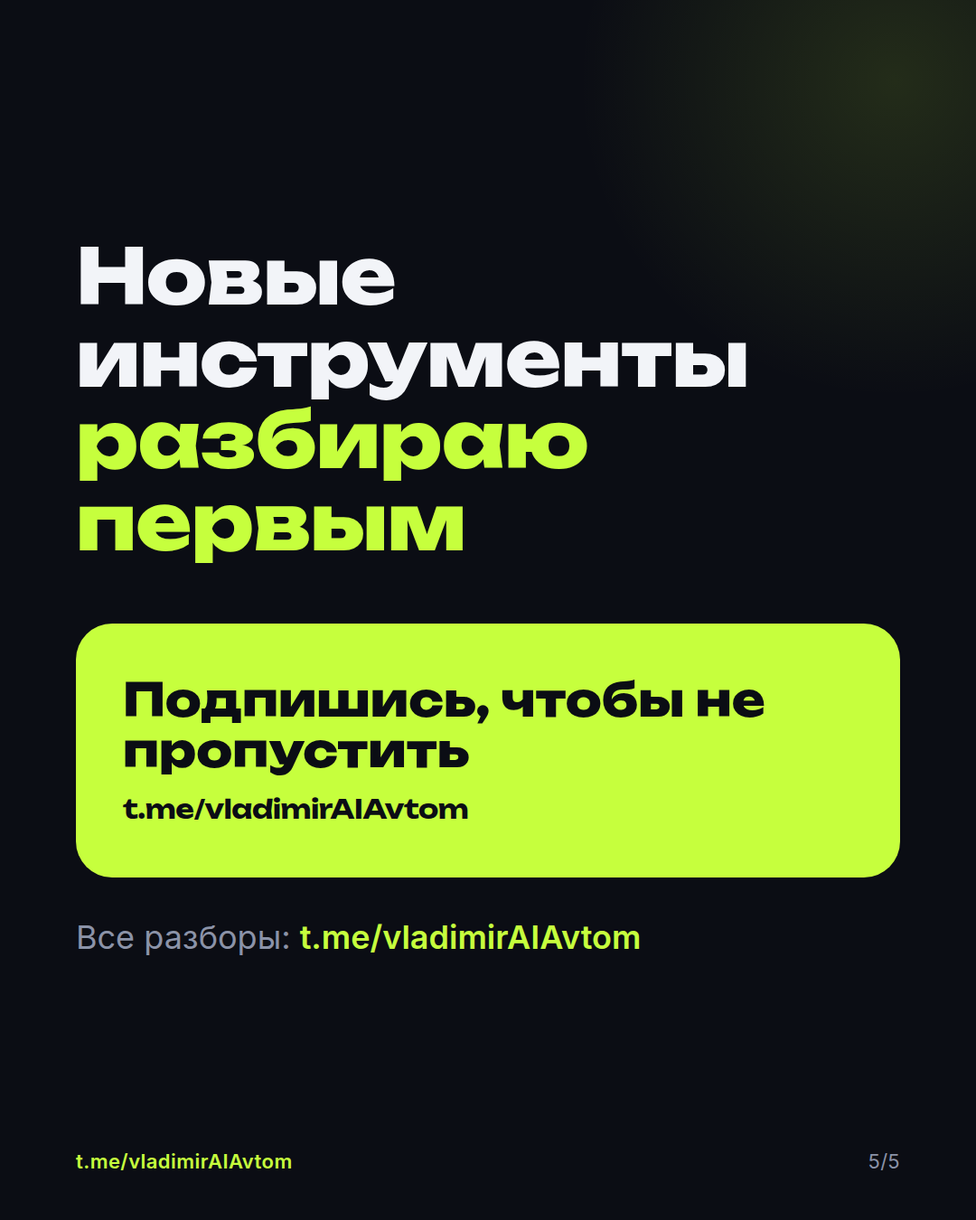
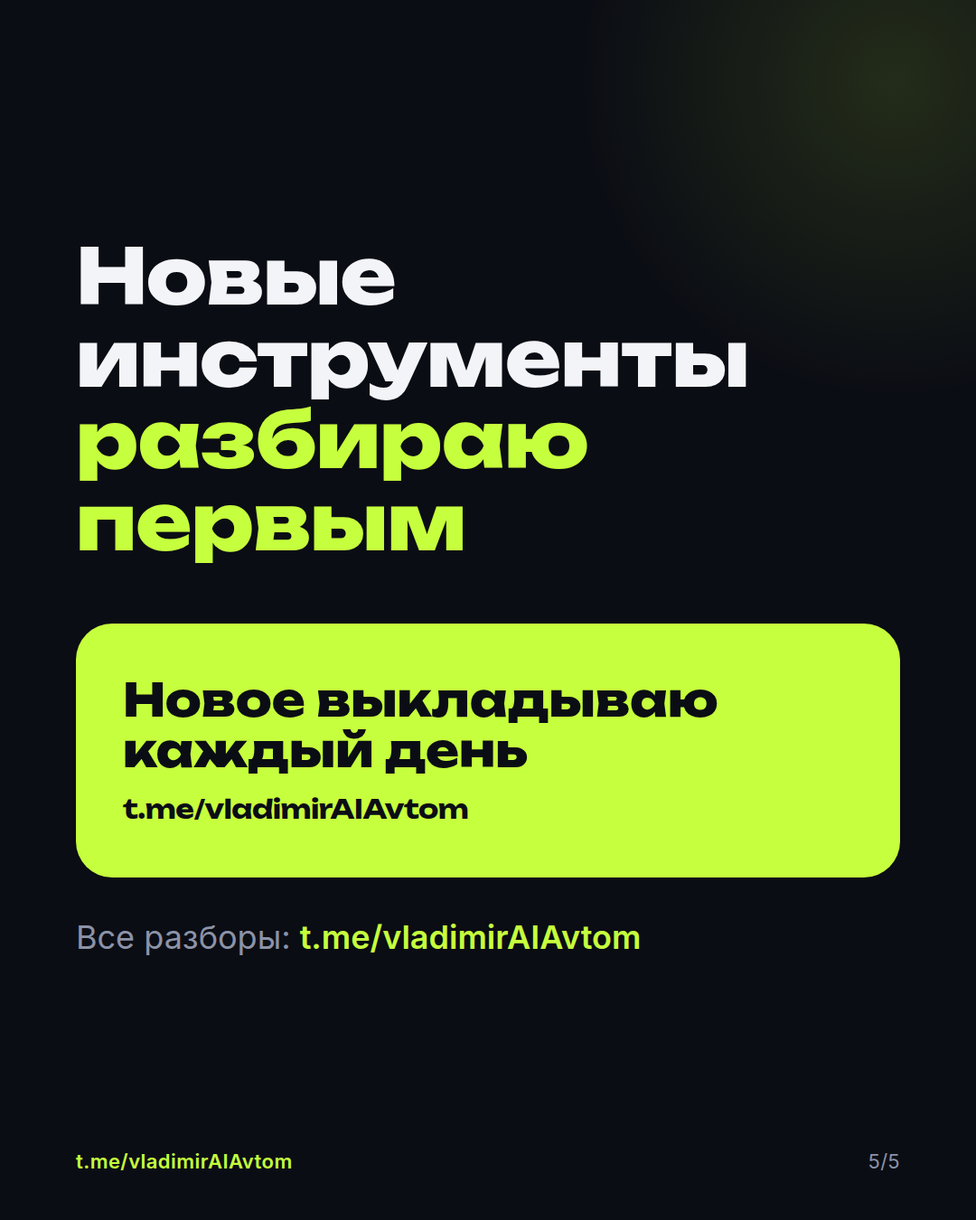
Переписаны тексты Telegram и Threads живым языком, новые финальные слайды
Claude-Session: https://claude.ai/code/session_01RGtCujMSt6uDGJ5qVfRfoY

Changed region(s): [[0.1222, 0.56, 0.7944, 0.6533]]

diff --git a/posts/2026-10-13_1800_p01_claude7/threads.md b/posts/2026-10-13_1800_p01_claude7/threads.md
@@ -1,23 +1,11 @@
-ОШИБКА, ИЗ-ЗА КОТОРОЙ ОДИН РИЛС НЕ МАСШТАБИРУЕТСЯ НА НЕСКОЛЬКО АККАУНТОВ
-Заливаешь один и тот же ролик на 3-5 профилей и охваты у всех проседают.
-Я делаю до 10 копий рилса за минуту ботом и разобрал, что ещё важно, кроме самого файла. 5 пунктов:
+ПОЧЕМУ ОДИН РИЛС НА НЕСКОЛЬКИХ АККАУНТАХ НЕ ЗАХОДИТ
+Заливаешь один ролик на 3-5 профилей, и охваты у всех проседают. Я делаю до 10 копий рилса за минуту ботом, и вот что важно кроме самого файла.
 ---
-[1] РАЗНЕСИ ВЫХОД ПО ВРЕМЕНИ
-Не выкладывай копии одновременно. Между аккаунтами хотя бы 3-4 часа.
-Сделай так: расписание на неделю, у каждого аккаунта свой час.
+Разнеси выход по времени. Между аккаунтами хотя бы 3-4 часа, у каждого свой час в расписании.
 ---
-[2] У КАЖДОГО АККАУНТА СВОЯ ПОДПИСЬ
-Один текст под всеми копиями выдаёт тиражирование.
-Сделай так: попроси нейросеть переписать подпись под 5 аккаунтов, сохранив смысл и призыв.
+Пиши свою подпись под каждую копию. Один текст везде выдаёт тиражирование. Нейросеть перепишет под 5 аккаунтов, а смысл останется.
 ---
-[3] СВОЯ ОБЛОЖКА И ПЕРВЫЙ КАДР
-Начало решает, досмотрят ли. Поменяй обложку и первые 2 секунды.
-Сделай так: 2 варианта начала, сравни удержание через сутки.
+Меняй обложку и первые 2 секунды. Начало решает, досмотрят ли. Сделай 2 варианта и через сутки сравни удержание.
 ---
-[4] ВЕДИ ТАБЛИЦУ РЕЗУЛЬТАТОВ
-Одна копия на разных аккаунтах даёт разные цифры. Записывай просмотры, удержание, сохранения.
-Сделай так: 4 колонки и 10 строк хватит, чтобы увидеть, что заходит.
----
-[5] ТЕСТИРУЙ НА СВОЁМ РИЛСЕ ДО ПОКУПКИ
-Проверь копию глазами и на своём аккаунте, прежде чем лить на все.
-Сделай так: первые 5 копий в моём боте бесплатно, ссылка в Telegram: t.me/vladimirAIAvtom
+Веди таблицу: просмотры, удержание, сохранения. 4 колонки и 10 строк хватит, чтобы увидеть, что заходит.
+Сначала проверь копию на своём аккаунте. Первые 5 копий в моём боте бесплатно, ссылка в Telegram: t.me/vladimirAIAvtom

diff --git a/posts/2026-10-13_1200_07_agent/threads.md b/posts/2026-10-13_1200_07_agent/threads.md
@@ -1,23 +1,11 @@
 Я НЕ ПУБЛИКУЮ ПОСТЫ РУКАМИ С 10 ОКТЯБРЯ
-Посты в Telegram и Threads выходят сами по расписанию, и это стоит 0 рублей.
-Вот 5 шагов, как это устроено:
+Посты в Telegram и Threads выходят сами по расписанию, и стоит это 0 рублей. Расскажу, как устроено.
 ---
-[1] ОДИН ПОСТ = ОДНА ПАПКА
-В папке лежат текст и картинки. Дата и время публикации прямо в названии папки.
-Сделай так: назови папки 2026-10-14_1200_название и держи шаблон под рукой.
+Один пост - одна папка. Внутри текст и картинки, а дата и время публикации прописаны в названии папки.
 ---
-[2] РАСПИСАНИЕ ЗАПУСКАЕТ СЕРВИС, А НЕ ТЫ
-Я использую GitHub Actions: каждые 15 минут скрипт смотрит, чьё время пришло.
-Сделай так: попроси нейросеть написать такой скрипт под твой канал.
+Расписание запускает GitHub Actions. Раз в 15 минут скрипт смотрит, чьё время пришло, и публикует. Такой скрипт можно попросить написать нейросеть под твой канал.
 ---
-[3] ТОКЕНЫ В СЕКРЕТАХ
-Ключи бота и Threads не лежат в коде, они в защищённых настройках сервиса.
-Сделай так: никогда не вставляй токен в чат и в репозиторий.
+Ключи от бота и Threads лежат в защищённых настройках сервиса, не в коде. Токен нельзя вставлять ни в чат, ни в репозиторий.
 ---
-[4] ЗАПАС НА ЗАДЕРЖКИ
-Расписание иногда опаздывает: у меня был перерыв в 5 часов. Скрипт публикует всё, что пропущено за последние 48 часов.
-Сделай так: добавь ручной запуск на случай сбоя.
----
-[5] ПЕРВЫЕ ДВЕ НЕДЕЛИ ПРОВЕРЯЙ РЕЗУЛЬТАТ
-Автомат не отвечает за смысл. Смотри, что вышло и как выглядит.
-Сделай так: раз в день 2 минуты на проверку ленты. Как я это собрал: t.me/vladimirAIAvtom
+Расписание иногда опаздывает, у меня был перерыв в 5 часов. Поэтому скрипт добирает всё пропущенное, а запуск можно нажать руками.
+Первые две недели я смотрю ленту раз в день. Как я это собрал: t.me/vladimirAIAvtom

diff --git a/posts/2026-10-15_1200_p04_hook/threads.md b/posts/2026-10-15_1200_p04_hook/threads.md
@@ -1,22 +1,11 @@
 РИЛС С ИИ ЗА 10 МИНУТ
-Раньше сценарий съедал час. Сейчас собираю по одной схеме. Вот 5 шагов:
+Раньше сценарий съедал у меня час. Теперь собираю по одной схеме из 5 шагов.
 ---
-[1] ТЕМА ИЗ ВОПРОСОВ АУДИТОРИИ
-Не придумывай тему, возьми вопрос из директа или комментариев.
-Сделай так: выпиши 7 последних вопросов и выбери самый частый.
+Тему беру из вопросов аудитории. Выписываю 7 последних вопросов из директа и комментариев, выбираю самый частый.
 ---
-[2] КРЮЧОК В ПЕРВОЙ ФРАЗЕ
-Результат, цифра, ошибка или спор. Не «Привет, сегодня расскажу».
-Сделай так: попроси нейросеть дать 5 вариантов первой фразы и выбери самый конкретный.
+Первая фраза с крючком: результат, цифра, ошибка или спор. Не «Привет, сегодня расскажу». Прошу нейросеть дать 5 вариантов и беру самый конкретный.
 ---
-[3] СЦЕНАРИЙ НА 30 СЕКУНД
-Крючок, 3 пункта, одно действие в конце. Фразы до 12 слов.
-Сделай так: вставь в Claude промпт: «Ты сценарист коротких видео. Тема: [тема]. Напиши сценарий на 30 секунд».
+Сценарий на 30 секунд: крючок, 3 пункта, одно действие в конце, фразы до 12 слов. Пишет Claude по промпту: «Ты сценарист коротких видео. Тема: [тема]. Напиши сценарий на 30 секунд».
 ---
-[4] СЪЁМКА БЕЗ ПЕРЕСЪЁМОВ
-Свет от окна, чистый звук, субтитры. Звук важнее картинки.
-Сделай так: перед записью один раз проговори текст вслух, уберёшь неудобные фразы.
----
-[5] МЕТРИКИ ПОСЛЕ ВЫХОДА
-Удержание, просмотры не от подписчиков, сохранения и отправки.
-Сделай так: через сутки запиши 3 цифры и сделай следующий рилс на ту же тему. Гайд в PDF: t.me/vladimirAIAvtom
+Снимаю у окна, звук чистый, субтитры включены. Звук важнее картинки. Через сутки записываю 3 цифры: удержание, просмотры не от подписчиков, сохранения.
+Гайд в PDF: t.me/vladimirAIAvtom

diff --git a/posts/2026-10-13_1800_p01_claude7/text.md b/posts/2026-10-13_1800_p01_claude7/text.md
@@ -1,21 +1,20 @@
 7 ПРОМПТОВ, КОТОРЫЕ ЭКОНОМЯТ МНЕ ЧАС В ДЕНЬ
-Для предпринимателя. Копируй и меняй под себя.
+Беру их почти каждый день. Подставляй свой текст.
 
-Письма:
-1. «Вот сообщение клиента. Ответь вежливо и коротко, предложи 2 варианта решения»
-2. «Перепиши письмо спокойно, но чтобы было ясно, что сроки не сорвутся»
-3. «Вот заметки встречи. Выдели решения, ответственных и сроки списком»
+Письма
+1. Вот сообщение клиента: [текст]. Ответь вежливо и коротко, предложи 2 варианта решения.
+2. Перепиши письмо спокойно, но так, чтобы было ясно: сроки не сорвутся.
+3. Вот заметки со встречи. Выдели решения, ответственных и сроки списком.
 
-Контент:
-4. «Дай 10 заголовков к тексту, каждый с цифрой»
-5. «Сожми текст до 600 символов, сохрани цифры»
+Контент
+4. Дай 10 заголовков к тексту, в каждом цифра.
+5. Сожми текст до 600 символов, цифры оставь.
 
-Решения:
-6. «Вот мой план. Найди 5 слабых мест и скажи, что проверить заранее»
-7. «Вот данные. Назови 3 вывода и 1 действие на завтра»
+Решения
+6. Вот мой план. Найди 5 слабых мест и скажи, что проверить заранее.
+7. Вот данные. Назови 3 вывода и 1 действие на завтра.
 
-Сделай так: вставляй реальный текст или таблицу, а не пересказ.
-Какой промпт добавить в следующий список? Напиши в комментариях. Завтра в 12:00 выйдет гайд на 12 промптов.
+Работает, когда даёшь настоящий текст или таблицу, а не пересказ. Какой промпт добавить в следующий список? Завтра в 12:00 выйдет гайд на 12 промптов.
 
 Instagram: instagram.com/vladimir_shchetkovsky
 Threads: threads.com/@vladimir_shchetkovsky

diff --git a/posts/2026-10-17_1800_g4_insta/threads.md b/posts/2026-10-17_1800_g4_insta/threads.md
@@ -1,23 +1,12 @@
 ЧЕЛОВЕК ЗАШЁЛ В ПРОФИЛЬ И УШЁЛ. ПОЧЕМУ
-Вот 5 причин, из-за которых визит не превращается в подписку:
+Чаще всего причина в одном из пяти мест. Иду по порядку.
 ---
-[1] НЕПОНЯТНО, О ЧЁМ БЛОГ
-В имени и шапке нет темы.
-Сделай так: в имени одно слово ниши, чтобы тебя находили.
+1. Непонятно, о чём блог. В имени и шапке нет темы. Поставь в имя слово ниши, чтобы тебя находили.
+2. Нет выгоды от подписки. Напиши одной строкой, что человек получит.
 ---
-[2] НЕТ ВЫГОДЫ ОТ ПОДПИСКИ
-Шапка про «я» вместо «ты получишь».
-Сделай так: напиши в одной строке, что человек получит, если подпишется.
+3. Ссылка ведёт в пустоту. Оставь одну, на главное действие: бот или канал.
+4. Нет актуального. Сделай 4 папки: Начни тут, Польза, Результаты, Связь.
 ---
-[3] ССЫЛКА ВЕДЁТ В ПУСТОТУ
-Несколько ссылок и ни одного действия.
-Сделай так: одна ссылка на главное действие: бот или канал.
+5. Закреп не продаёт. Закрепи три поста: про тебя, самый залётный разбор и результат.
 ---
-[4] НЕТ АКТУАЛЬНОГО
-Новичку негде быстро понять пользу.
-Сделай так: 4 папки: «Начни тут», «Польза», «Результаты», «Связь».
----
-[5] ЗАКРЕП НЕ ПРОДАЁТ
-Лучшие посты утонули в ленте.
-Сделай так: закрепи 3: про тебя, самый залётный разбор и результат.
-Гайд по упаковке в PDF: напиши «ПРОФИЛЬ» в комментариях, отправлю в директ. Или забери в Telegram: t.me/vladimirAIAvtom
+Что у тебя сейчас в шапке? Напиши, скажу, что поправить. Гайд по упаковке в PDF: напиши ПРОФИЛЬ, отправлю в директ. Или в Telegram: t.me/vladimirAIAvtom

diff --git a/posts/2026-10-14_1800_p11_prompt4/threads.md b/posts/2026-10-14_1800_p11_prompt4/threads.md
@@ -1,19 +1,12 @@
 ВСЕ ГОВОРЯТ: ЧТОБЫ ВЕСТИ БЛОГ, НУЖЕН SMM-ЩИК
-А я считаю, что хватит папки с постами и скрипта.
-Вот 3 причины, почему я так делаю:
+А я считаю, что хватит папки с постами и скрипта. Объясню, почему.
 ---
-[1] РЕШАЕТ РЕГУЛЯРНОСТЬ, А НЕ ШТАТ
-Посты, которые выходят каждый день, работают лучше идеальных, которые не вышли.
-Сделай так: заготовь 7 постов на неделю за один час.
+Регулярность важнее штата. Пост, который вышел, работает лучше идеального, который так и не вышел. Заготовь 7 постов на неделю за один час.
 ---
-[2] ПУБЛИКАЦИЮ МОЖНО ОТДАТЬ СКРИПТУ
-Скрипт по расписанию выкладывает всё сам, в Telegram и Threads.
-Сделай так: текст, картинки и время держи в одной папке.
+Публикацию можно отдать скрипту. Он по расписанию выкладывает всё сам, в Telegram и Threads. Текст, картинки и время лежат в одной папке.
 ---
-[3] ВЫДУМЫВАТЬ ПОМОГАЕТ НЕЙРОСЕТЬ
-Она пишет черновики, ты правишь голос и факты.
-Сделай так: давай ей роль, задачу, контекст и формат (формулу я разбирал в Telegram).
+Придумывать помогает нейросеть. Она пишет черновик, ты правишь голос и факты. Дай ей роль, задачу, контекст и формат.
 ---
-Где SMM-щик всё же нужен: стратегия, съёмка, работа с клиентами.
-А вы как думаете: что из ведения блога можно отдать автомату, а что нет? Пишите в ответы.
+SMM-щик всё равно нужен там, где стратегия, съёмка и работа с клиентами.
+Что бы ты отдал автомату в ведении блога, а что нет? Напиши в ответах.
 Разбираю такое в Telegram: t.me/vladimirAIAvtom

diff --git a/posts/2026-10-15_1800_p05_tools/threads.md b/posts/2026-10-15_1800_p05_tools/threads.md
@@ -1,16 +1,11 @@
 МНЕ 29, Я ЖИВУ ВО ВЬЕТНАМЕ И СОБИРАЮ БЛОГ КАК ПРОДУКТ
-Люди удивляются, когда узнают, что у меня нет команды: бот, автопостинг и сценарии рилсов делает нейросеть.
-История коротко, потом цифры:
+Многие удивляются, что у меня нет команды. Бот, автопостинг и сценарии рилсов сделаны с нейросетью. Расскажу коротко, потом по цифрам.
 ---
-[1] ЧТО Я СДЕЛАЛ
-Бот, который за минуту делает до 10 разных копий рилса. Пять копий бесплатно.
+Что сделал: бота, который за минуту делает до 10 разных копий рилса. Первые 5 копий бесплатно.
 ---
-[2] КАК ПОСТЫ ВЫХОДЯТ САМИ
-С 10 октября посты в Telegram и Threads публикует скрипт по расписанию. Я не нажимаю кнопки.
+Как выходят посты: с 10 октября скрипт сам публикует в Telegram и Threads по расписанию. Я не нажимаю кнопки.
 ---
-[3] ЧТО ПОКА НЕ ПОЛУЧИЛОСЬ
-Продаж 0. Meta на сутки заблокировала мой аккаунт разработчика, и Threads молчал. Сегодня всё снова работает.
+Что пока не вышло: продаж ноль. Ещё Meta на сутки заблокировала мой аккаунт разработчика, и Threads молчал. Сейчас всё работает.
 ---
-Цифры буду писать каждый день, без приукрашивания.
-А вы что бы хотели автоматизировать в своём бизнесе в первую очередь?
-Результаты и разборы: t.me/vladimirAIAvtom
+Цифры буду писать каждый день. А ты что хочешь автоматизировать в своём бизнесе в первую очередь?
+Результаты и разборы в Telegram: t.me/vladimirAIAvtom

diff --git a/posts/2026-10-16_1200_p06_nano/threads.md b/posts/2026-10-16_1200_p06_nano/threads.md
@@ -1,14 +1,9 @@
-ФОТО ТОВАРА ДЛЯ КАРТОЧКИ БЕЗ СТУДИИ
-Один промпт для генератора изображений. Загрузи реальное фото товара как референс:
+ФОТО ТОВАРА ДЛЯ КАРТОЧКИ БЕЗ СТУДИИ: ОДИН ПРОМПТ
+Загрузи в генератор изображений реальное фото товара как образец и вставь промпт ниже.
 ---
-ПРОМПТ
-«Сфотографируй этот товар на светлом нейтральном фоне, мягкий дневной свет, тень под товаром, вид чуть сверху, товар занимает 70% кадра, без текста и логотипов, форма и цвет товара не меняются.»
+«Сфотографируй этот товар на светлом нейтральном фоне, мягкий дневной свет, тень под товаром, вид чуть сверху, товар занимает 70% кадра, без текста и логотипов, форма и цвет товара не меняются».
 ---
-ЧТО МЕНЯТЬ
-Фон: «на деревянном столе», «в цвет упаковки».
-Свет: «контрастный», «рассеянный».
-Ракурс: «сверху», «под углом 45 градусов».
+Дальше крути под себя: фон («на деревянном столе»), свет («контрастный»), ракурс («под углом 45 градусов»).
 ---
-ЧТО ПРОВЕРИТЬ
-Форма и цвет совпадают с реальным товаром. Нет лишних деталей и искажений. Фото не обещает того, чего в товаре нет.
-Больше схем с ИИ: t.me/vladimirAIAvtom
+Сверяй с реальным товаром: форма и цвет должны совпасть, и фото не должно обещать то, чего нет.
+Какой товар будешь снимать? Напиши, подскажу, что поменять. Ещё схемы с ИИ в Telegram: t.me/vladimirAIAvtom

diff --git a/posts/2026-10-16_1800_g6_reels/threads.md b/posts/2026-10-16_1800_g6_reels/threads.md
@@ -1,12 +1,10 @@
-ГАЙД: РИЛС С ИИ ЗА 10 МИНУТ
-От идеи до готового сценария. Полный PDF бесплатно в моём Telegram.
-Вот что внутри и один промпт:
+РИЛС С ИИ ЗА 10 МИНУТ
+Собрал гайд: от идеи до готового сценария. Главное из него покажу тут.
 ---
-ЧТО ВНУТРИ
-Идея: где брать темы. Крючок: 5 формул первой фразы. Сценарий: структура на 30 секунд. Съёмка: что снять и как. Метрики: что смотреть после выхода.
+Темы бери из вопросов подписчиков, из своего рабочего дня и из чужих залётных роликов. Разбери, почему они зашли, и сделай по-своему.
 ---
-ПРОМПТ СЦЕНАРИЯ
-«Ты сценарист коротких видео. Тема: [тема]. Аудитория: [кто]. Напиши сценарий на 30 секунд: крючок в первой фразе, 3 коротких пункта, в конце одно действие. Фразы до 12 слов, говорим как в жизни.»
+Промпт сценария: «Ты сценарист коротких видео. Тема: [тема]. Аудитория: [кто]. Напиши сценарий на 30 секунд: крючок в первой фразе, 3 коротких пункта, в конце одно действие. Фразы до 12 слов, говорим как в жизни».
 ---
-Полный PDF.
-Напиши «РИЛС» в комментариях, отправлю PDF в директ. Или забери в Telegram: t.me/vladimirAIAvtom
+Структура на 30 секунд: 0-3 сек крючок, до 25 сек три мысли, в конце одно действие.
+---
+Сколько времени у тебя уходит на один рилс? Напиши цифру. Гайд целиком: напиши РИЛС, отправлю в директ. Или в Telegram: t.me/vladimirAIAvtom

diff --git a/posts/2026-10-13_1200_07_agent/text.md b/posts/2026-10-13_1200_07_agent/text.md
@@ -1,14 +1,11 @@
 ЧАТ ОТВЕЧАЕТ. АГЕНТ ДЕЛАЕТ
-Большинство пользуется нейросетью как чатом: вопрос, ответ, копирование. Агент работает иначе:
+В обычном чате ты спрашиваешь, он отвечает, ты копируешь результат. Агент берёт задачу и ведёт её сам: ищет, открывает файлы, собирает итог и перепроверяет себя.
 
-1. Задача: чат даёт один ответ, агент делает цепочку шагов до результата
-2. Память: агент помнит контекст и твои правила
-3. Действия: работает с файлами, ищет, собирает, монтирует
-4. Ошибки: проверяет результат и исправляет себя
+У меня так делается видео. Сценарий пишет нейросеть, озвучка и монтаж собираются сами, мне остаётся посмотреть и поправить.
 
-Пример из моей практики: сценарий пишет нейросеть, озвучка и монтаж собираются автоматически, я только проверяю.
+Что нужно агенту: помнить твои правила, уметь работать с файлами и замечать свои ошибки.
 
-Что бы ты отдал агенту в первую очередь? Напиши в комментариях. Гайд «Рутина на автопилоте» выйдет в канале 18.10.
+Какую скучную задачу отдал бы ему первой? Гайд про рутину на автопилоте выложу 18.10.
 
 Instagram: instagram.com/vladimir_shchetkovsky
 Threads: threads.com/@vladimir_shchetkovsky

diff --git a/posts/2026-10-18_1800_g5_agent/threads.md b/posts/2026-10-18_1800_g5_agent/threads.md
@@ -1,14 +1,10 @@
-ГАЙД: РУТИНА НА АВТОПИЛОТЕ
-Что можно отдать агенту, а что оставить себе. Коротко, полный PDF в Telegram:
+ЧТО ОТДАТЬ НЕЙРОСЕТИ, А ЧТО ОСТАВИТЬ СЕБЕ
+Собрал гайд про рутину на автопилоте. Главное из него покажу тут.
 ---
-[1] ОТДАЙ
-Повторяющееся, работу с файлами, публикации по расписанию, сбор данных в таблицу.
+Отдавай то, что повторяется: файлы, публикации по расписанию, сбор данных в таблицу.
 ---
-[2] ОСТАВЬ СЕБЕ
-Решения про деньги и людей, финальную проверку смысла, всё, где ошибка стоит дорого.
+Себе оставь решения про деньги и людей, финальную проверку смысла и всё, где ошибка дорого стоит.
 ---
-[3] КАК НАЧАТЬ
-Выбери одну самую скучную задачу. Опиши шаги, как делал бы руками. Дай агенту правила. Проверь на 3 примерах.
+Как начать: выбери самую скучную задачу, опиши шаги как делал бы руками, дай агенту правила и проверь на трёх примерах.
 ---
-Полный PDF с примером автопостинга и безопасностью.
-Напиши «АВТОПОСТ» в комментариях, отправлю PDF в директ. Или забери в Telegram: t.me/vladimirAIAvtom
+Что отдал бы автомату первым? Напиши АВТОПОСТ, отправлю гайд в директ. Или забери в Telegram: t.me/vladimirAIAvtom

diff --git a/posts/2026-10-16_1200_p06_nano/text.md b/posts/2026-10-16_1200_p06_nano/text.md
@@ -1,12 +1,13 @@
 ФОТО ТОВАРА ДЛЯ КАРТОЧКИ БЕЗ СТУДИИ: ОДИН ПРОМПТ
-Для генератора изображений. Загрузи реальное фото товара как референс:
+Загрузи в генератор изображений реальное фото товара как образец и вставь:
 
 «Сфотографируй этот товар на светлом нейтральном фоне, мягкий дневной свет, тень под товаром, вид чуть сверху, товар занимает 70% кадра, без текста и логотипов, форма и цвет товара не меняются».
 
-Что менять: фон («на деревянном столе»), свет («контрастный»), ракурс («под углом 45 градусов»).
-Что проверить: форма и цвет совпадают с реальным товаром, нет искажений, фото не обещает того, чего нет.
+Дальше можно крутить: фон («на деревянном столе»), свет («контрастный»), ракурс («под углом 45 градусов»).
 
-Какой товар хочешь сфотографировать? Напиши в комментариях, подскажу, что поменять в промпте.
+Сверяй с реальным товаром: форма и цвет должны совпасть, и фото не должно обещать то, чего в товаре нет.
+
+Какой товар будешь снимать? Напиши, подскажу, что поменять в промпте.
 
 Instagram: instagram.com/vladimir_shchetkovsky
 Threads: threads.com/@vladimir_shchetkovsky
